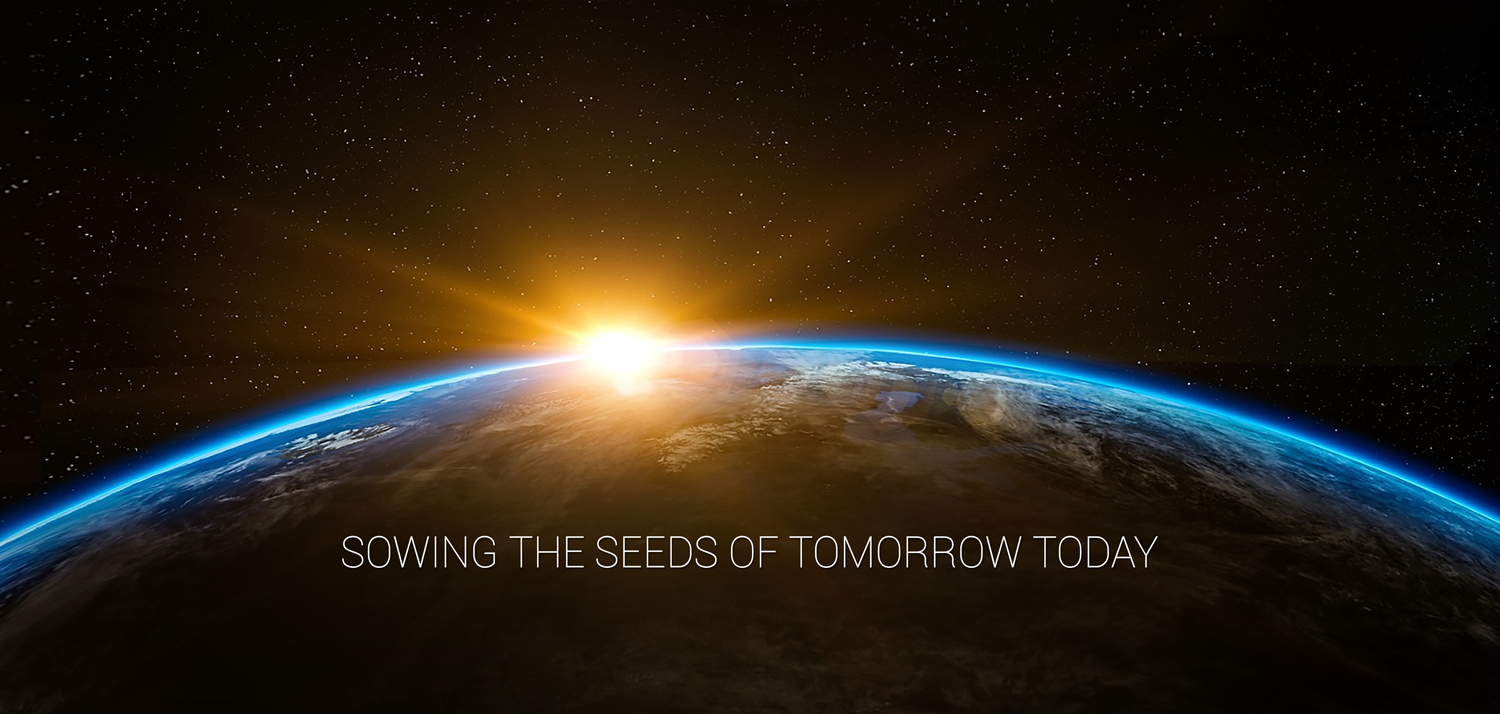
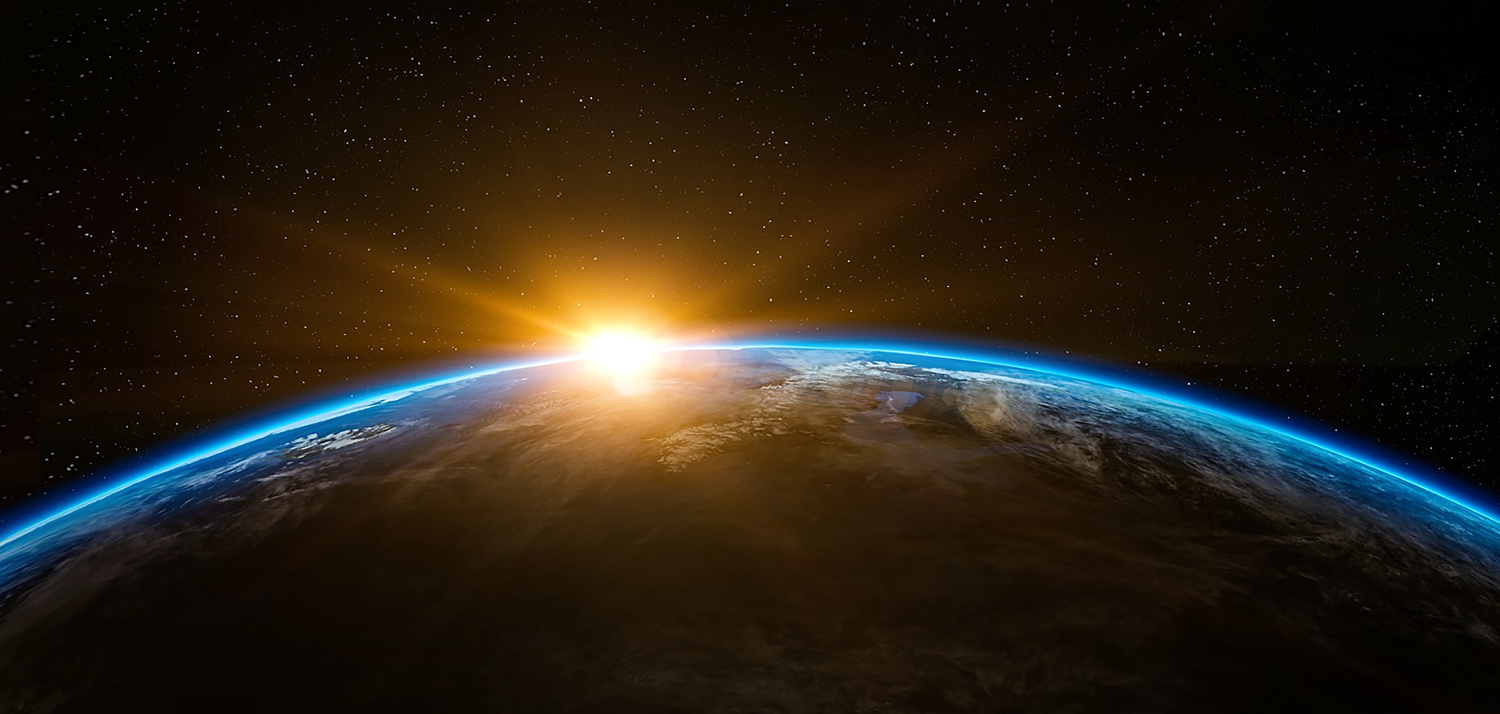
New header images and purpose styling

Changed region(s): [[0.2147, 0.7395, 0.7667, 0.8011]]

diff --git a/src/templates/index-page.js b/src/templates/index-page.js
@@ -2,6 +2,7 @@ import React from 'react'
 import PropTypes from 'prop-types'
 import { Link, graphql } from 'gatsby'
 import logo from '../img/cabc-logo.png'
+import introText from '../img/sowingtheseeds.png'
 import Layout from '../components/Layout'
 import Features from '../components/Features'
 import Motivations from '../components/Motivations'
@@ -42,6 +43,10 @@ export const IndexPageTemplate = ({
              <Link to="/" title="Logo">
               <img className="cabcLogo" src={logo} alt="CABC Logo" />
             </Link>
+            <Link to="/" title="Logo">
+              <img className="cabcLogoText" src={introText} alt="CABC Logo" />
+            </Link>
+            
            </div>
     </div>
     <section className="section section--gradient">
@@ -51,6 +56,7 @@ export const IndexPageTemplate = ({
             <div className="column is-10 is-offset-1">
               <div className="content">
                 <div className="content">
+                <h3>Our Mission Statement</h3>
                   <div className="tile">
                     <h1 className="title">{mainpitch.title}</h1>
                   </div>
@@ -61,7 +67,7 @@ export const IndexPageTemplate = ({
                       {heading}
                     </h3> */}
                      <div className="tile">
-                  <h2 className="overSizedHeading">Our Purpose</h2>
+                  <h3>Our Purpose</h3>
                     {/* <h3 className="subtitle">{mainpitch.description}</h3> */}
                   
                   </div>

diff --git a/src/components/Motivations.js b/src/components/Motivations.js
@@ -4,12 +4,11 @@ import PreviewCompatibleImage from '../components/PreviewCompatibleImage'
 
 const MotivationGrid = ({ gridItems }) => (
   <div className="columns is-multiline">
-  <ol class="custom-counter">{gridItems.map(item => (
-      <li key={item} >
+ {gridItems.map(item => (
+      <p className="purposeItem" key={item} >
             {item.reason}
-      </li>
+      </p>
     ))}
-    </ol>
   </div>
 )
 

diff --git a/src/templates/about-page.js b/src/templates/about-page.js
@@ -12,7 +12,7 @@ export const AboutPageTemplate = ({ title, content, contentComponent }) => {
          <div
           className="full-width-image-container margin-top-0"
           style={{
-            backgroundImage: `url('/img/blog-index.jpg')`,
+            backgroundImage: `url('/img/aboutUs.jpg')`,
           }}
         >
           <h1

diff --git a/src/pages/blog/index.js b/src/pages/blog/index.js
@@ -10,7 +10,7 @@ export default class BlogIndexPage extends React.Component {
         <div
           className="full-width-image-container margin-top-0"
           style={{
-            backgroundImage: `url('/img/blog-index.jpg')`,
+            backgroundImage: `url('/img/news.jpg')`,
           }}
         >
           <h1

diff --git a/src/pages/contact/index.js b/src/pages/contact/index.js
@@ -41,7 +41,7 @@ export default class Index extends React.Component {
          <div
           className="full-width-image-container margin-top-0"
           style={{
-            backgroundImage: `url('/img/blog-index.jpg')`,
+            backgroundImage: `url('/img/cover.jpg')`,
           }}
         >
           <h1

diff --git a/src/templates/how-we-work.js b/src/templates/how-we-work.js
@@ -12,7 +12,7 @@ export const HowWeWorkTemplate = ({ title, content, contentComponent }) => {
     <div
      className="full-width-image-container margin-top-0"
      style={{
-       backgroundImage: `url('/img/blog-index.jpg')`,
+       backgroundImage: `url('/img/howWeWork.jpg')`,
      }}
    >
      <h1

diff --git a/src/templates/what-we-do.js b/src/templates/what-we-do.js
@@ -12,7 +12,7 @@ export const WhatWeDoTemplate = ({ title, content, contentComponent }) => {
     <div
      className="full-width-image-container margin-top-0"
      style={{
-       backgroundImage: `url('/img/blog-index.jpg')`,
+       backgroundImage: `url('/img/whatWeDo.jpg')`,
      }}
    >
      <h1

diff --git a/src/style/global.scss b/src/style/global.scss
@@ -432,3 +432,11 @@ h3 {
   width: fit-content;
   padding: 8px 10px;
 }
+.purposeItem { 
+  margin-left: 13px;
+  width: 100%;
+  display: inline-block;
+  border-left: 4px solid #cdcc00;
+  padding: 15px;
+  padding-left: 25px;
+}
